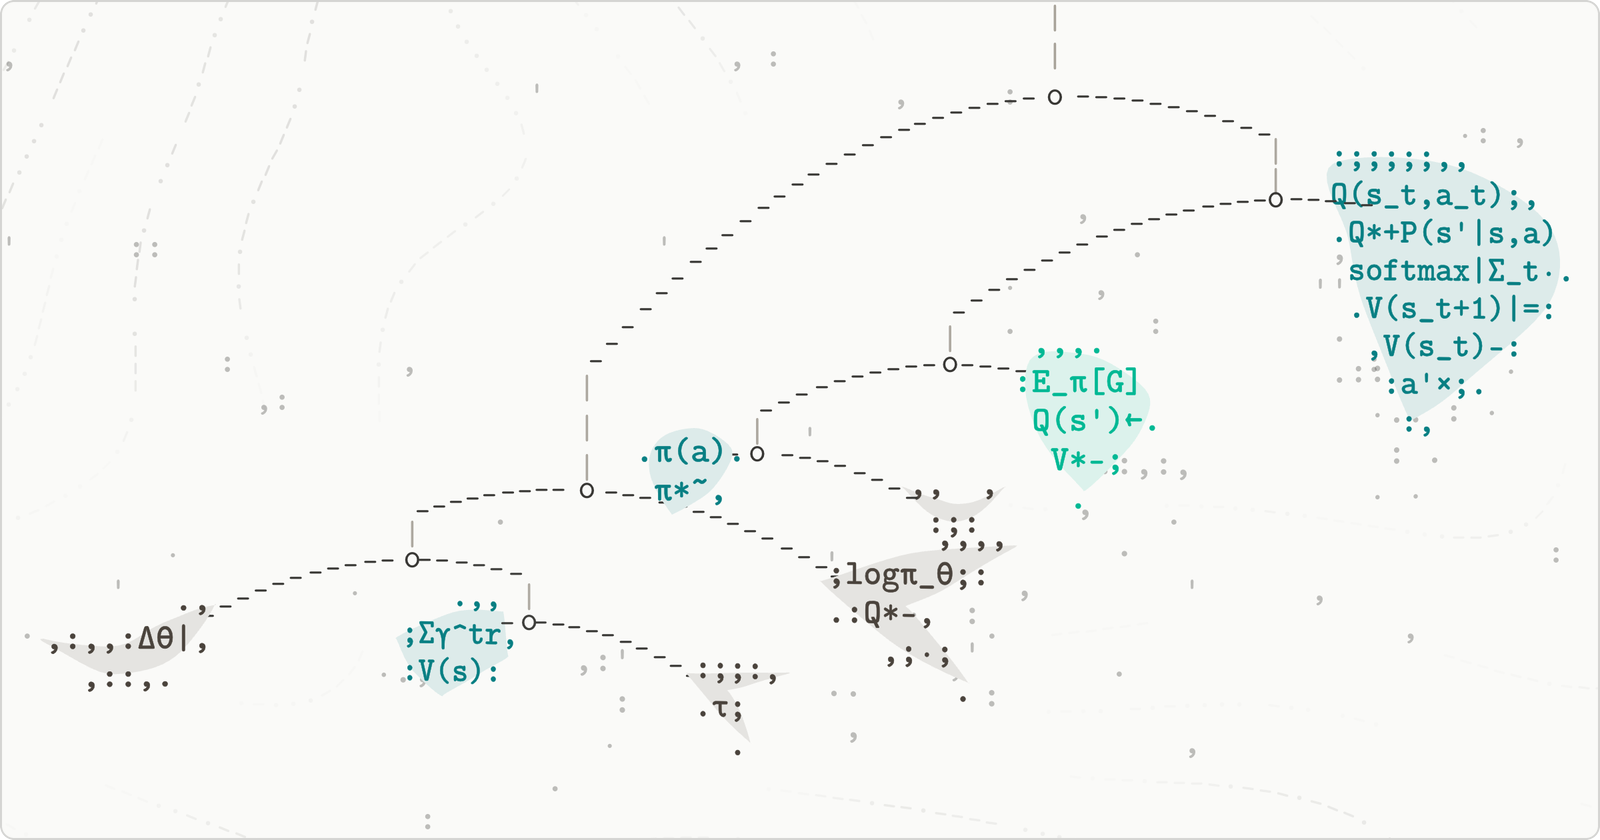
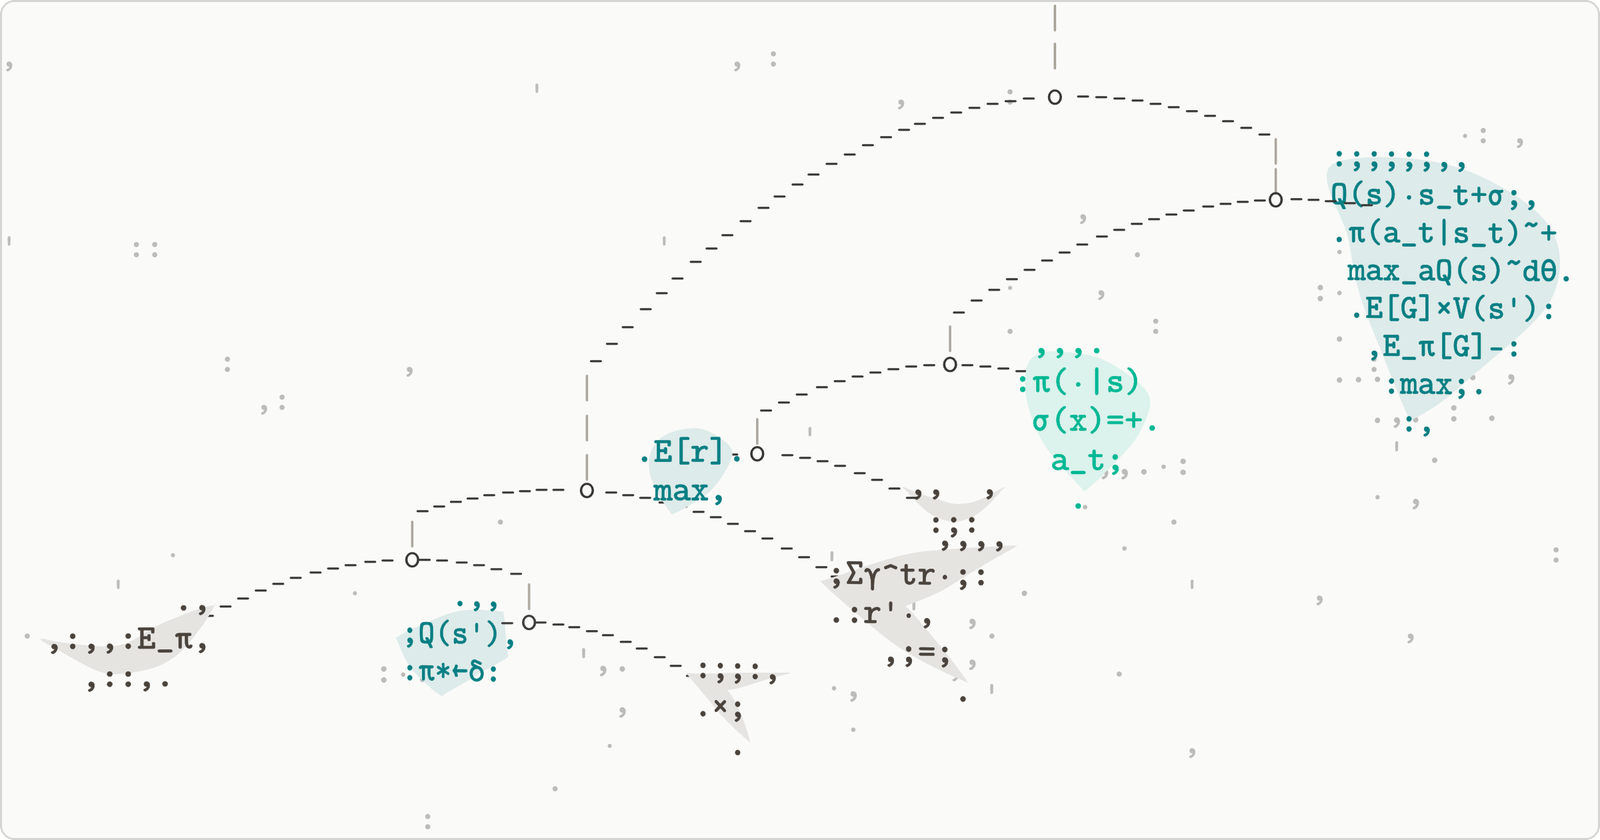
Share images without the contour background

diff --git a/app/thumbnail/page.tsx b/app/thumbnail/page.tsx
@@ -5,12 +5,12 @@ import Mobile from "@/components/mobile/Mobile";
 
 export const metadata: Metadata = { title: "Cambrian", robots: { index: false } };
 
-/* The share image (app/opengraph-image.png) is a capture of this page: the mobile, still, over the
-   page's contour background, at 1200 × 630. */
+/* The share image (app/opengraph-image.png) is a capture of this page: the mobile, still, at
+   1200 × 630, over the page's contour background if FIELD.thumbnail.show. */
 export default function Thumbnail() {
   return (
     <div className="h-[630px] w-[1200px] bg-paper">
-      <Field still zoom={FIELD.thumbnailZoom} />
+      {FIELD.thumbnail.show && <Field still zoom={FIELD.thumbnail.zoom} />}
       <div className="relative z-10 h-full w-full">
         <Mobile thumbnail />
       </div>

diff --git a/components/field/config.ts b/components/field/config.ts
@@ -92,8 +92,8 @@ export const FIELD = {
   burst: { count: 24, alpha: 0.5, duration: 2.9, spread: 0.6, cooldown: 1.5 },
 
   /**
-   * The share image (app/thumbnail) shows the sculpture about twice as large as the page does,
-   * so its background is drawn `thumbnailZoom` times larger to match.
+   * The share image (app/thumbnail): whether it has the background at all (`show`), and if so,
+   * drawn `zoom` times larger, since it shows the sculpture about twice as large as the page.
    */
-  thumbnailZoom: 2,
+  thumbnail: { show: false, zoom: 2 },
 };

diff --git a/README.md b/README.md
@@ -1,5 +1,5 @@
 <p align="center">
-  <img src=".github/thumbnail.png" width="800" alt="An ASCII-art mobile after Alexander Calder, its sheets printed with reinforcement-learning notation, over faint contour lines.">
+  <img src=".github/thumbnail.png" width="800" alt="An ASCII-art mobile after Alexander Calder, its sheets printed with reinforcement-learning notation.">
 </p>
 
 # Cambrian
